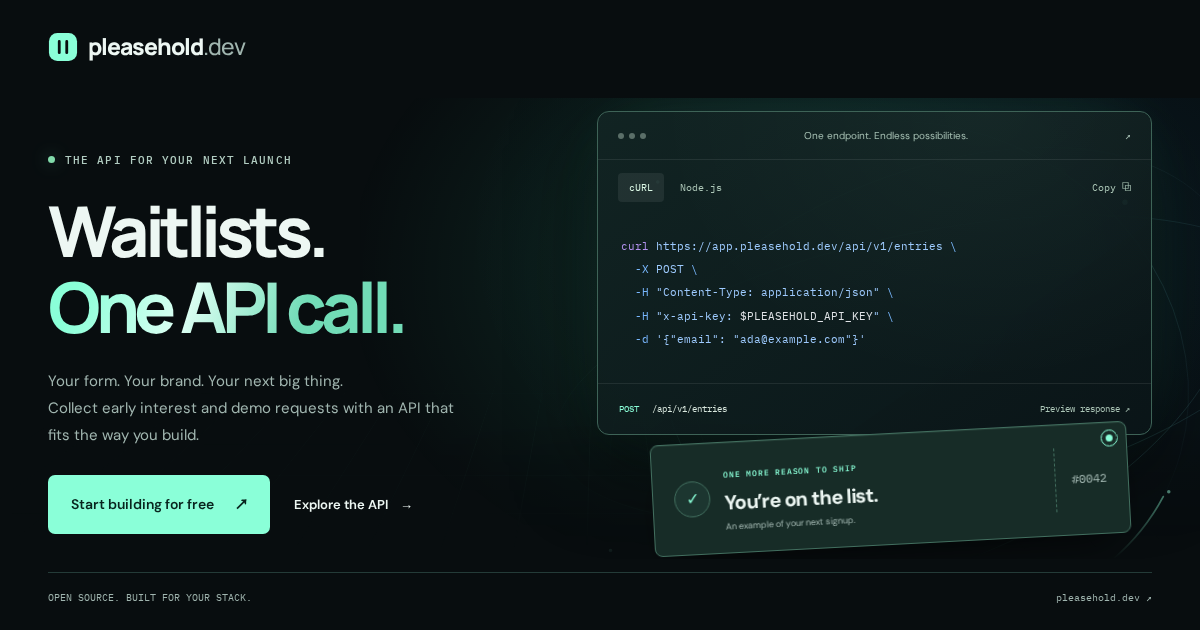
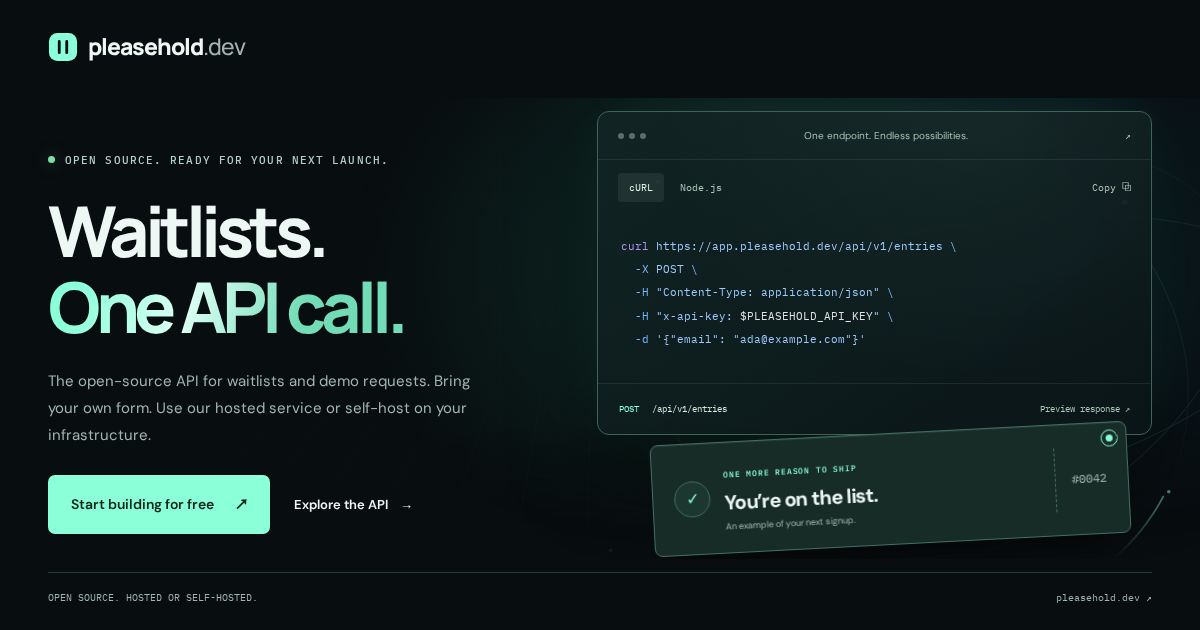
feat: highlight open source and self-hosting on the landing

diff --git a/apps/www/src/styles/global.css b/apps/www/src/styles/global.css
@@ -1190,6 +1190,7 @@ h2 {
 }
 .footer-main nav {
 	display: flex;
+	flex-wrap: wrap;
 	gap: 35px;
 	padding-top: 8px;
 	font-size: 12px;
@@ -2207,6 +2208,188 @@ html[data-motion="on"] [data-motion-scene][data-visible="true"] *::after {
 		right: 10px;
 		font-size: 9px;
 		padding: 7px 10px;
+	}
+}
+
+.hero-source-links {
+	display: flex;
+	flex-wrap: wrap;
+	gap: 12px 24px;
+	margin-top: 22px;
+	font-size: 11px;
+	font-weight: 500;
+	color: var(--mint);
+}
+.hero-source-links a:hover,
+.source-license:hover {
+	text-decoration: underline;
+	text-underline-offset: 4px;
+}
+.hero-source-links a span {
+	margin-left: 5px;
+}
+.open-source-section {
+	display: grid;
+	grid-template-columns: 1fr 1fr;
+	align-items: center;
+	gap: 80px;
+	padding-block: 100px 0;
+}
+.open-source-copy > .eyebrow {
+	color: var(--mint);
+	margin-bottom: 20px;
+}
+.open-source-copy h2 {
+	font-size: 48px;
+}
+.open-source-description {
+	color: var(--muted);
+	font-size: 15px;
+	line-height: 1.9;
+	margin-top: 24px;
+	max-width: 440px;
+}
+.source-license {
+	display: inline-flex;
+	align-items: center;
+	gap: 16px;
+	font-size: 10px;
+	color: var(--mint);
+	border: 1px solid var(--line);
+	border-radius: 4px;
+	padding: 6px 10px;
+	margin-top: 20px;
+}
+.open-source-actions {
+	display: flex;
+	flex-wrap: wrap;
+	align-items: center;
+	gap: 24px;
+	margin-top: 30px;
+}
+.open-source-actions .text-link {
+	font-size: 12px;
+}
+.self-host-panel {
+	position: relative;
+	min-width: 0;
+	padding: 36px;
+	border: 1px solid #426a59;
+	border-radius: 12px;
+	background: radial-gradient(ellipse at 100% 0%, #23574055, transparent 70%), var(--surface);
+}
+.self-host-panel-heading {
+	display: flex;
+	align-items: center;
+	gap: 14px;
+	color: var(--mint);
+}
+.self-host-panel-heading .eyebrow {
+	font-size: 9px;
+}
+.self-host-panel h3 {
+	font-size: 29px;
+	line-height: 1.3;
+	letter-spacing: -0.8px;
+	margin-top: 22px;
+}
+.self-host-panel > p {
+	color: var(--muted);
+	font-size: 13px;
+	line-height: 1.8;
+	margin-top: 15px;
+}
+.self-host-panel ul {
+	list-style: none;
+	display: grid;
+	gap: 14px;
+	padding: 0;
+	margin: 24px 0;
+	font-size: 12px;
+}
+.self-host-panel li {
+	display: flex;
+	gap: 12px;
+}
+.self-host-panel li > span {
+	color: var(--mint);
+}
+.self-host-command {
+	border-block: 1px solid var(--line);
+	padding-block: 20px;
+	margin-bottom: 24px;
+}
+.self-host-command p {
+	color: var(--muted);
+	font-size: 9px;
+	line-height: 1.7;
+	margin-bottom: 10px;
+}
+.self-host-command code {
+	font-family: var(--font-mono);
+	font-size: 14px;
+	color: var(--mint);
+}
+.self-host-command code > span {
+	color: var(--muted);
+}
+.self-host-panel > .self-host-ops {
+	font-size: 10px;
+	margin-top: 12px;
+}
+@media (max-width: 1050px) {
+	.open-source-section {
+		gap: 40px;
+	}
+	.self-host-panel {
+		padding: 28px;
+	}
+}
+@media (max-width: 800px) {
+	.open-source-section {
+		grid-template-columns: 1fr;
+		gap: 32px;
+		padding-top: 75px;
+	}
+	.open-source-description {
+		max-width: 550px;
+	}
+	.open-source-copy h2 {
+		font-size: 42px;
+	}
+}
+@media (max-width: 520px) {
+	.hero-source-links {
+		font-size: 10px;
+		gap: 12px 18px;
+		margin-top: 18px;
+	}
+	.open-source-section {
+		padding-top: 64px;
+	}
+	.open-source-copy h2 {
+		font-size: 36px;
+	}
+	.open-source-description {
+		font-size: 13px;
+	}
+	.open-source-actions {
+		gap: 20px;
+	}
+	.self-host-panel {
+		padding: 24px;
+	}
+	.self-host-panel h3 {
+		font-size: 27px;
+	}
+	.self-host-panel-heading .eyebrow {
+		font-size: 8px;
+	}
+	.self-host-panel-heading svg {
+		flex-shrink: 0;
+	}
+	.self-host-command code {
+		font-size: 12px;
 	}
 }
 

diff --git a/apps/www/src/scripts/motion.ts b/apps/www/src/scripts/motion.ts
@@ -101,7 +101,7 @@ if ('IntersectionObserver' in window) {
 		{ threshold: 0.08 },
 	);
 	for (const el of document.querySelectorAll<HTMLElement>(
-		'.hero-copy > *, .hero-demo, .intro-section > *, .product-section, .section-heading, .steps-grid article, .notification-feature, .feature-grid article, .pricing-card, .self-host, .faq-section > *, .final-inner > :not([aria-hidden])',
+		'.hero-copy > *, .hero-demo, .intro-section > *, .product-section, .section-heading, .steps-grid article, .notification-feature, .feature-grid article, .pricing-card, .self-host, .open-source-copy, .self-host-panel, .faq-section > *, .final-inner > :not([aria-hidden])',
 	))
 		revealObserver.observe(el);
 	for (const parent of document.querySelectorAll(
